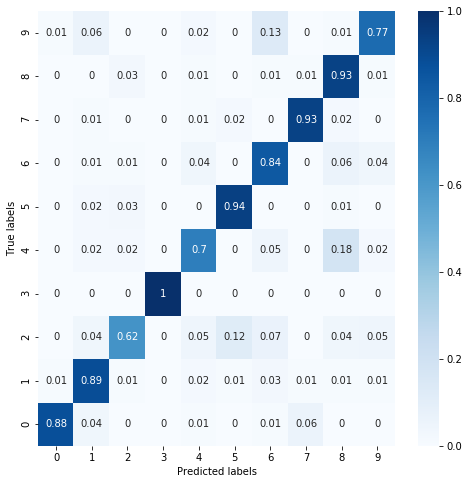
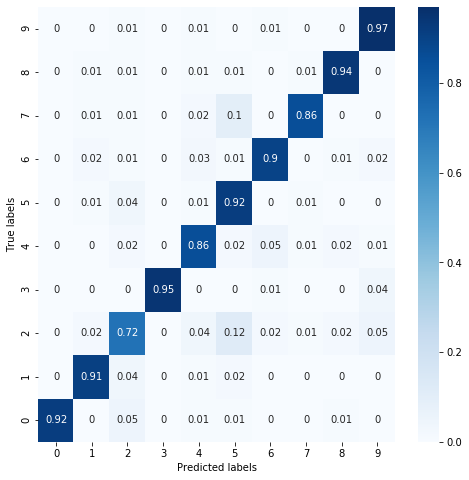
add lstm

diff --git a/keras_lstm.py b/keras_lstm.py
@@ -11,6 +11,7 @@ from keras.models import Sequential, load_model
 from keras.layers import Dense, Dropout, Activation
 from keras.layers import Embedding, LSTM
 from keras.optimizers import Adam
+from keras.callbacks import EarlyStopping
 
 # 读入训练数据
 td = TextData(is_seged=True)
@@ -47,7 +48,9 @@ model.summary()
 # 训练模型
 history = model.fit(x_data, x_labels,
           batch_size=TRNNConfig.batch_size, epochs=TRNNConfig.epochs,
-          validation_data=(y_data, y_labels))
+          validation_data=(y_data, y_labels),
+          callbacks=[EarlyStopping(monitor='val_loss',min_delta=0.0001)] ## 当val-loss不再提升时停止训练
+          )
 
 # 模型保存
 model.save(TRNNConfig.save_path)

diff --git a/README.md b/README.md
@@ -27,9 +27,52 @@ weighted avg       0.93      0.93      0.93     10000
 ## NNS
 下面试试神经网络，一般遵循“窄而深”的原则搭建网络，这里举的例子均较为简单，简单提供思路使用，可根据个人需求定制细节。注意无论前面的贝叶斯还是这里的神经网络，均未做停用词处理。
 ### CNN
+```
+Model: "sequential_1"
+_________________________________________________________________
+Layer (type)                 Output Shape              Param #   
+=================================================================
+embedding_1 (Embedding)      (None, 500, 64)           320000    
+_________________________________________________________________
+conv1d_1 (Conv1D)            (None, 493, 128)          65664     
+_________________________________________________________________
+global_max_pooling1d_1 (Glob (None, 128)               0         
+_________________________________________________________________
+dense_1 (Dense)              (None, 64)                8256      
+_________________________________________________________________
+dropout_1 (Dropout)          (None, 64)                0         
+_________________________________________________________________
+dense_2 (Dense)              (None, 10)                650       
+=================================================================
+Total params: 394,570
+Trainable params: 394,570
+Non-trainable params: 0
+_________________________________________________________________
+```
 测试集准确率95.16%  
 ![img](https://github.com/MachineWei/TextClassify/blob/master/images/textcnn.png)
 ### LSTM
+模型：
+```
+Model: "sequential_1"
+_________________________________________________________________
+Layer (type)                 Output Shape              Param #   
+=================================================================
+embedding_1 (Embedding)      (None, 500, 64)           320000    
+_________________________________________________________________
+lstm_1 (LSTM)                (None, 64)                33024     
+_________________________________________________________________
+dense_1 (Dense)              (None, 64)                4160      
+_________________________________________________________________
+dropout_1 (Dropout)          (None, 64)                0         
+_________________________________________________________________
+dense_2 (Dense)              (None, 10)                650       
+=================================================================
+Total params: 357,834
+Trainable params: 357,834
+Non-trainable params: 0
+_________________________________________________________________
+```
 测试集准确率84.92%  
 ![img](https://github.com/MachineWei/TextClassify/blob/master/images/textlstm.png)
 
